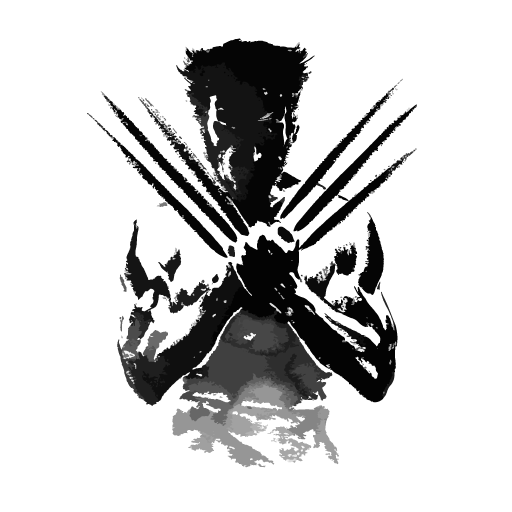
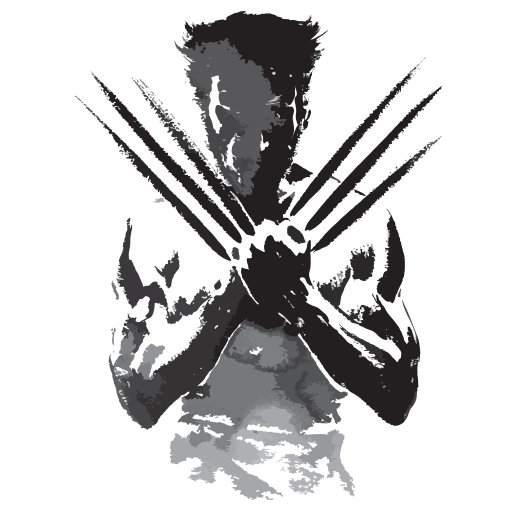
(main/header): change title for img

diff --git a/marvelquizz/src/App.css b/marvelquizz/src/App.css
@@ -111,6 +111,7 @@ header {
 }
 
 .banner-container {
+  text-align: center;
   padding: 20px 0;
   flex-basis: 80%;
 }
@@ -125,6 +126,7 @@ main {
 /* WELCOME PAGE */
 .welcomePage {
   background-color: var(--red-color);
+  background-blend-mode: multiply;
   background-image: url(images/wolverine.png);
   background-repeat: no-repeat;
   background-position: center center;
@@ -165,3 +167,24 @@ main {
   background-color: var(--white-color);
 }
 
+/* FOOTER */
+footer {
+  display: flex;
+  justify-content: center;
+}
+
+.footer-container {
+  padding: 20px 0;
+  padding: 20px 0;
+  flex: 0 1 80%;
+}
+
+.footer-container p {
+  color: var(--white-color);
+  line-height: 19px;
+  margin: 10px 0;
+  text-align: center;
+  padding: 0;
+  font-size: 12px;
+  font-weight: normal;
+}

diff --git a/marvelquizz/src/components/Header/index.js b/marvelquizz/src/components/Header/index.js
@@ -1,10 +1,11 @@
 import React from 'react';
+import Marvel from '../../images/Marvel_quiz.png'
 
 const Header = () => {
   return (
     <header>
       <div className="banner-container">
-        <h1><a href="/">Marvel Quizz</a></h1>
+        <a href="/"><img src={Marvel} alt=""/></a>
       </div>
     </header>
   )
